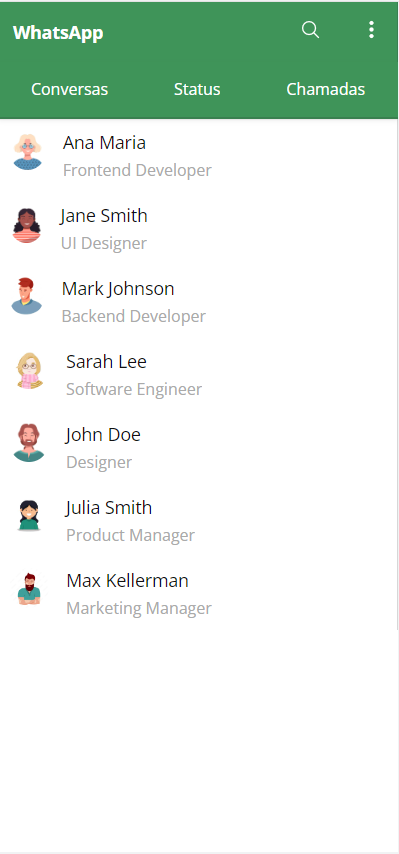
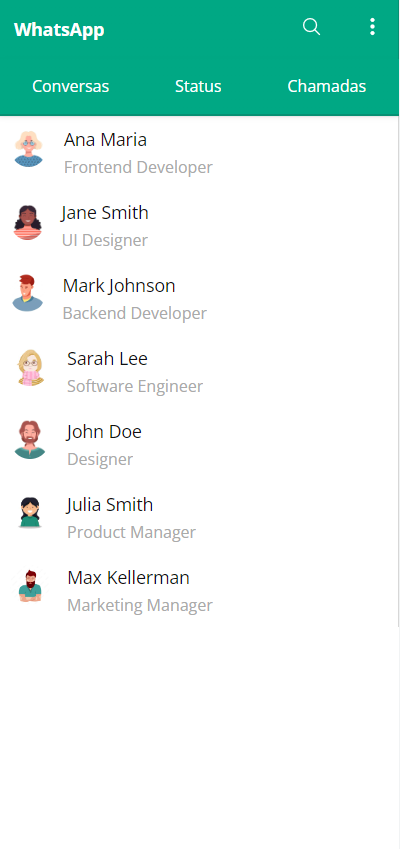
Readme

diff --git a/css/mobile.css b/css/mobile.css
@@ -29,15 +29,14 @@
     }
 
     .container-perfil {
-        background-color: rgba(0, 113, 34, 0.753);
-    }
-
+        background: linear-gradient(#00a884 0%, #00a884 127px, #d9dbd5 127px, #d9dbd5 100%);    
+}
     .pesquisa-celular {
         display: flex;
         align-items: center;
         height: 6.8%;
         justify-content: space-around;
-        background-color: rgba(0, 113, 34, 0.753);
+        background: linear-gradient(#00a884 0%, #00a884 127px, #d9dbd5 127px, #d9dbd5 100%);    
         box-shadow: 0 1px 1px rgba(0, 0, 0, 0.06), 0 2px 5px 0 rgba(0, 0, 0, 0.06);
         border-bottom: 2px solid #2525252f;
         color: white;

diff --git a/README.md b/README.md
@@ -7,7 +7,7 @@
 ---
 ## Sobre 
 
--Site do WhatsApp. O objetivo deste projeto é colocar em prática os conhecimentos adquiridos no curso do SENAI Jandira na criação de web sites e adquirir conhecimento sobre outras coisas das quais não foram abordadas no curso.
+- Site do WhatsApp. O objetivo deste projeto é colocar em prática os conhecimentos adquiridos no curso do SENAI Jandira na criação de web sites e adquirir conhecimento sobre outras coisas das quais não foram abordadas no curso.
 
 ## Tecnologias utilizadas 
 - HTML
